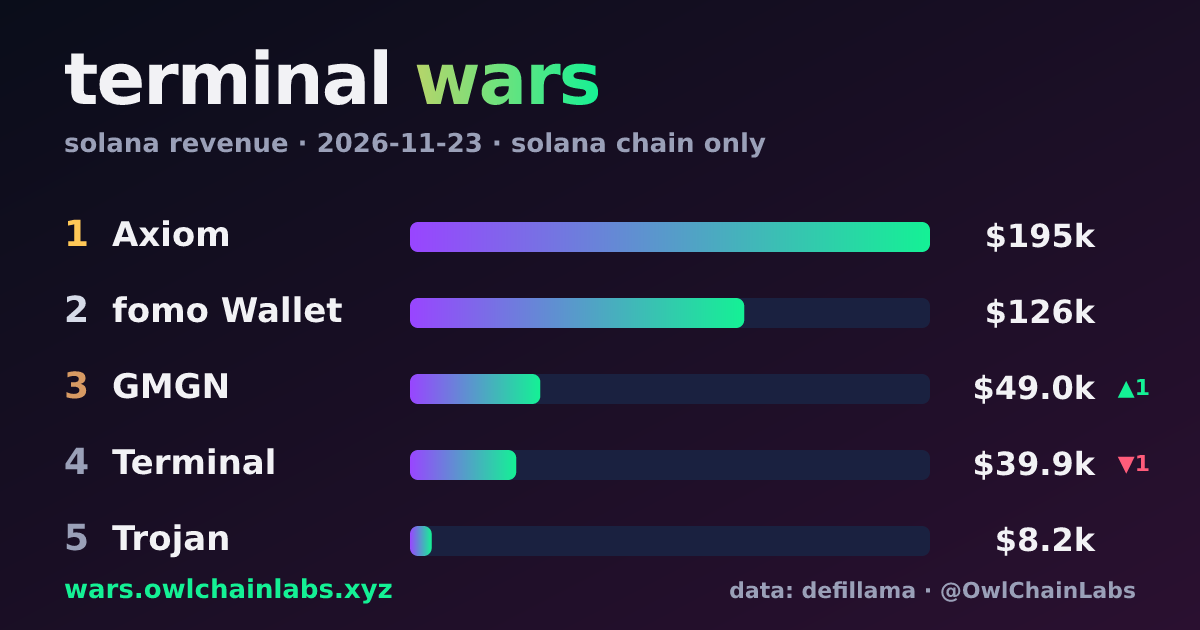
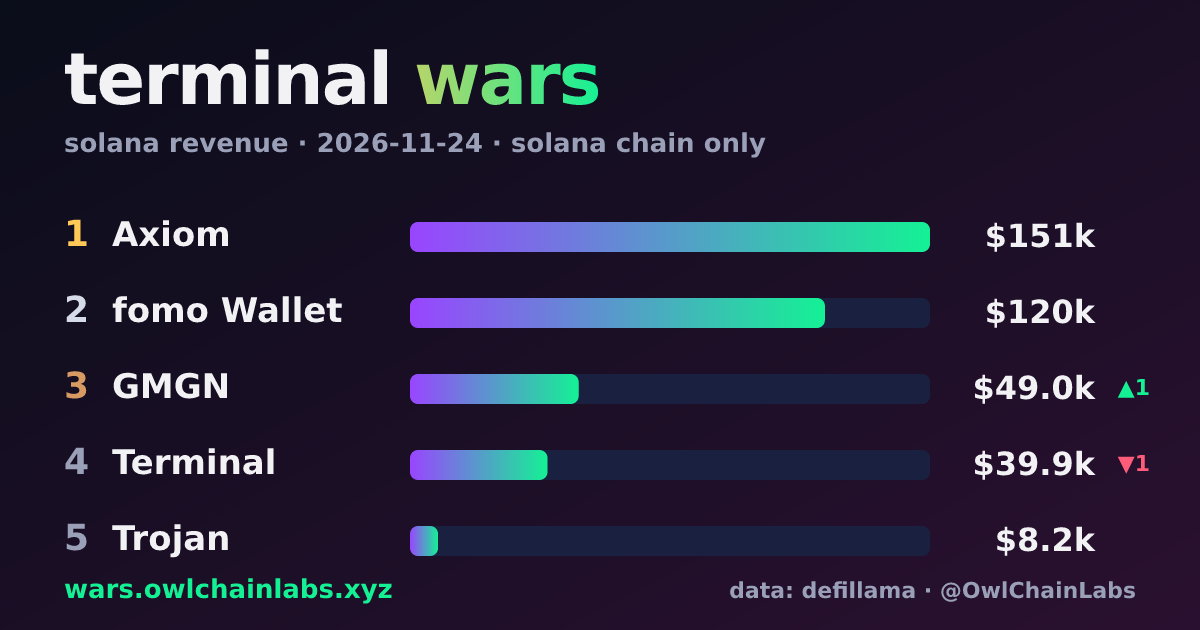
data: 2026-11-25

diff --git a/public/index.html b/public/index.html
@@ -9,8 +9,8 @@
   <meta property="og:title" content="terminal wars">
   <meta property="og:description" content="which solana trading terminal makes the most from you? daily leaderboard.">
   <meta property="og:url" content="https://wars.owlchainlabs.xyz">
-  <meta property="og:image" content="https://wars.owlchainlabs.xyz/og.png?v=2026-11-23">
-  <meta name="twitter:image" content="https://wars.owlchainlabs.xyz/og.png?v=2026-11-23">
+  <meta property="og:image" content="https://wars.owlchainlabs.xyz/og.png?v=2026-11-24">
+  <meta name="twitter:image" content="https://wars.owlchainlabs.xyz/og.png?v=2026-11-24">
   <meta name="twitter:card" content="summary_large_image">
   <meta name="twitter:site" content="@OwlChainLabs">
   <style>
